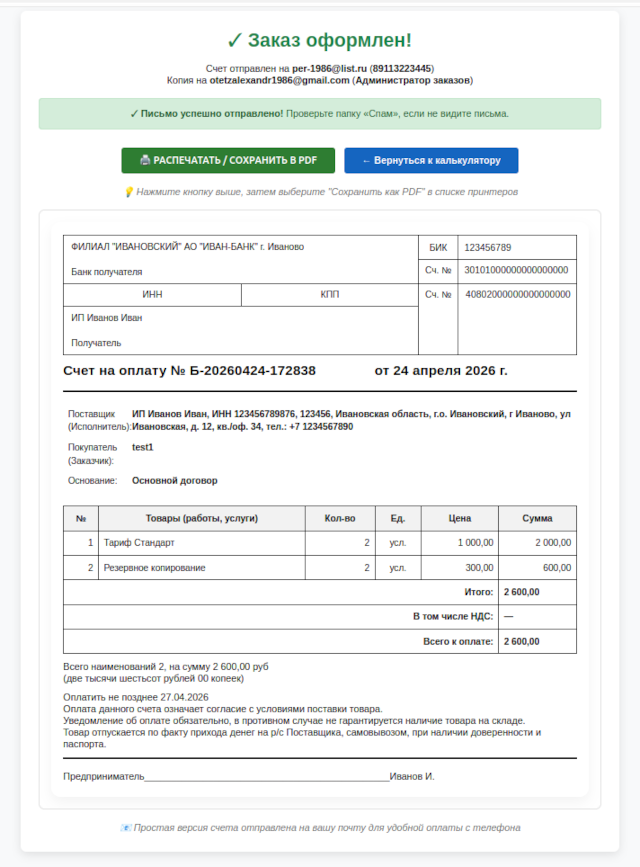
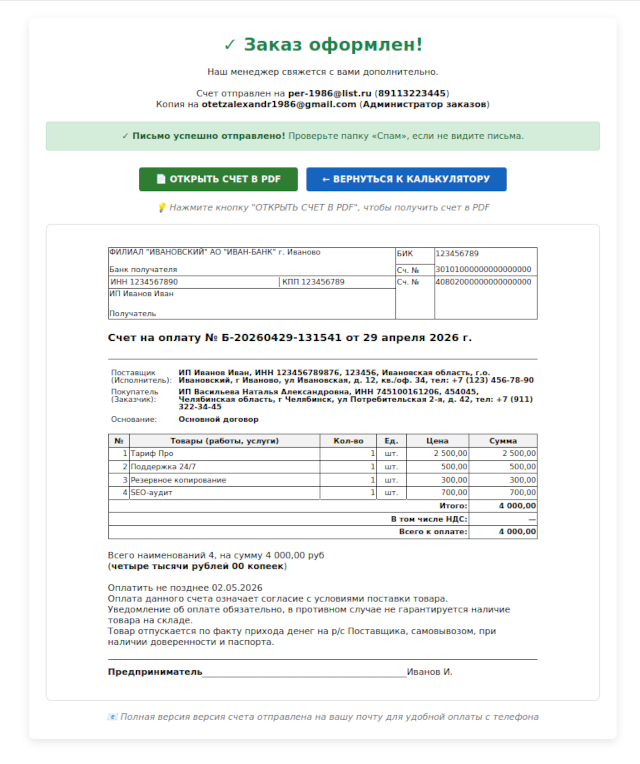
docs: update README

Changed region(s): [[0.0625, 0.0301, 0.9375, 0.9031], [0.1562, 0.9332, 0.8438, 0.9634]]

diff --git a/README.md b/README.md
@@ -2,10 +2,10 @@
   <a id="russian"></a>
   <h1>Скрипт php: Калькулятор-заказа с отправкой счёта на оплату</h1>
 
-  ![Stars](https://img.shields.io/github/stars/AlexandrAnatoliev/freelance.svg?style=flat)
+  ![Stars](https://img.shields.io/github/stars/AlexandrAnatoliev/freelance1.svg?style=flat)
   ![Version 0.1.41](https://img.shields.io/badge/Version-0.1.41-orange.svg)
-  ![Forks](https://img.shields.io/github/forks/AlexandrAnatoliev/freelance.svg?style=flat)
-  ![GitHub repo size](https://img.shields.io/github/repo-size/AlexandrAnatoliev/freelance)
+  ![Forks](https://img.shields.io/github/forks/AlexandrAnatoliev/freelance1.svg?style=flat)
+  ![GitHub repo size](https://img.shields.io/github/repo-size/AlexandrAnatoliev/freelance1)
   
 </div>
 
@@ -158,7 +158,7 @@
 
 * [x] **Бланк строгой формы**, аналогичный «1С» и принятый в документообороте РФ.
 * [x] **Границы таблицы:** Чёткие рамки у всех ячеек (как в предоставленных PDF-образцах).
-* [x] **Нумерация:** Формат номера с префиксом «Б». Пример: `Счёт на оплату № Б-001 от 21.04.2026 г.` (генерируется автоматически с автоинкрементом и датой).
+* [x] **Нумерация:** Формат номера с префиксом «Б». Пример: `Счёт на оплату № Б-001 от 21.04.2026 г.` (генерируется автоматически с  датой).
 * [x] **Шапка:** Реквизиты Продавца (подтягиваются из настроек).
 * [x] **Шапка:** Реквизиты Покупателя (Название компании, телефон, email — только то, что ввел клиент).
 * [x] **Каждая выбранная позиция — в отдельной строке** счёта
@@ -591,8 +591,10 @@ cp .env.example .env
 # BANK_DETAILS_BANK_IDENTIFICATION_CODE='123456789'
 # BANK_DETAILS_CORRESPONDENT_BANK_ACCOUNT='30101000000000000000'
 # BANK_DETAILS_RECIPIENTS_BANK_ACCOUNT='40802000000000000000'
+# BANK_DETAILS_INN='1234567890'
+# BANK_DETAILS_KPP='123456789'
 # BANK_DETAILS_IP_NAME='ИП Иванов Иван'
-# BANK_DETAILS_IP_FULL_NAME='ИП Иванов Иван, ИНН 123456789876, 123456, Ивановская область, г.о. Ивановский, г Иваново, ул Ивановская, д. 12, кв./оф. 34, тел.: +7 1234567890'
+# BANK_DETAILS_IP_FULL_NAME='ИП Иванов Иван, ИНН 123456789876, 123456, Ивановская область, г.о. Ивановский, г Иваново, ул Ивановская, д. 12, кв./оф. 34, тел: +7 (123) 456-78-90'
 # BANK_DETAILS_PAYMENT_BASIS='Основной договор'
 # BANK_DETAILS_ENTREPRENEURS_SURNAME='Иванов И.'
 ```
